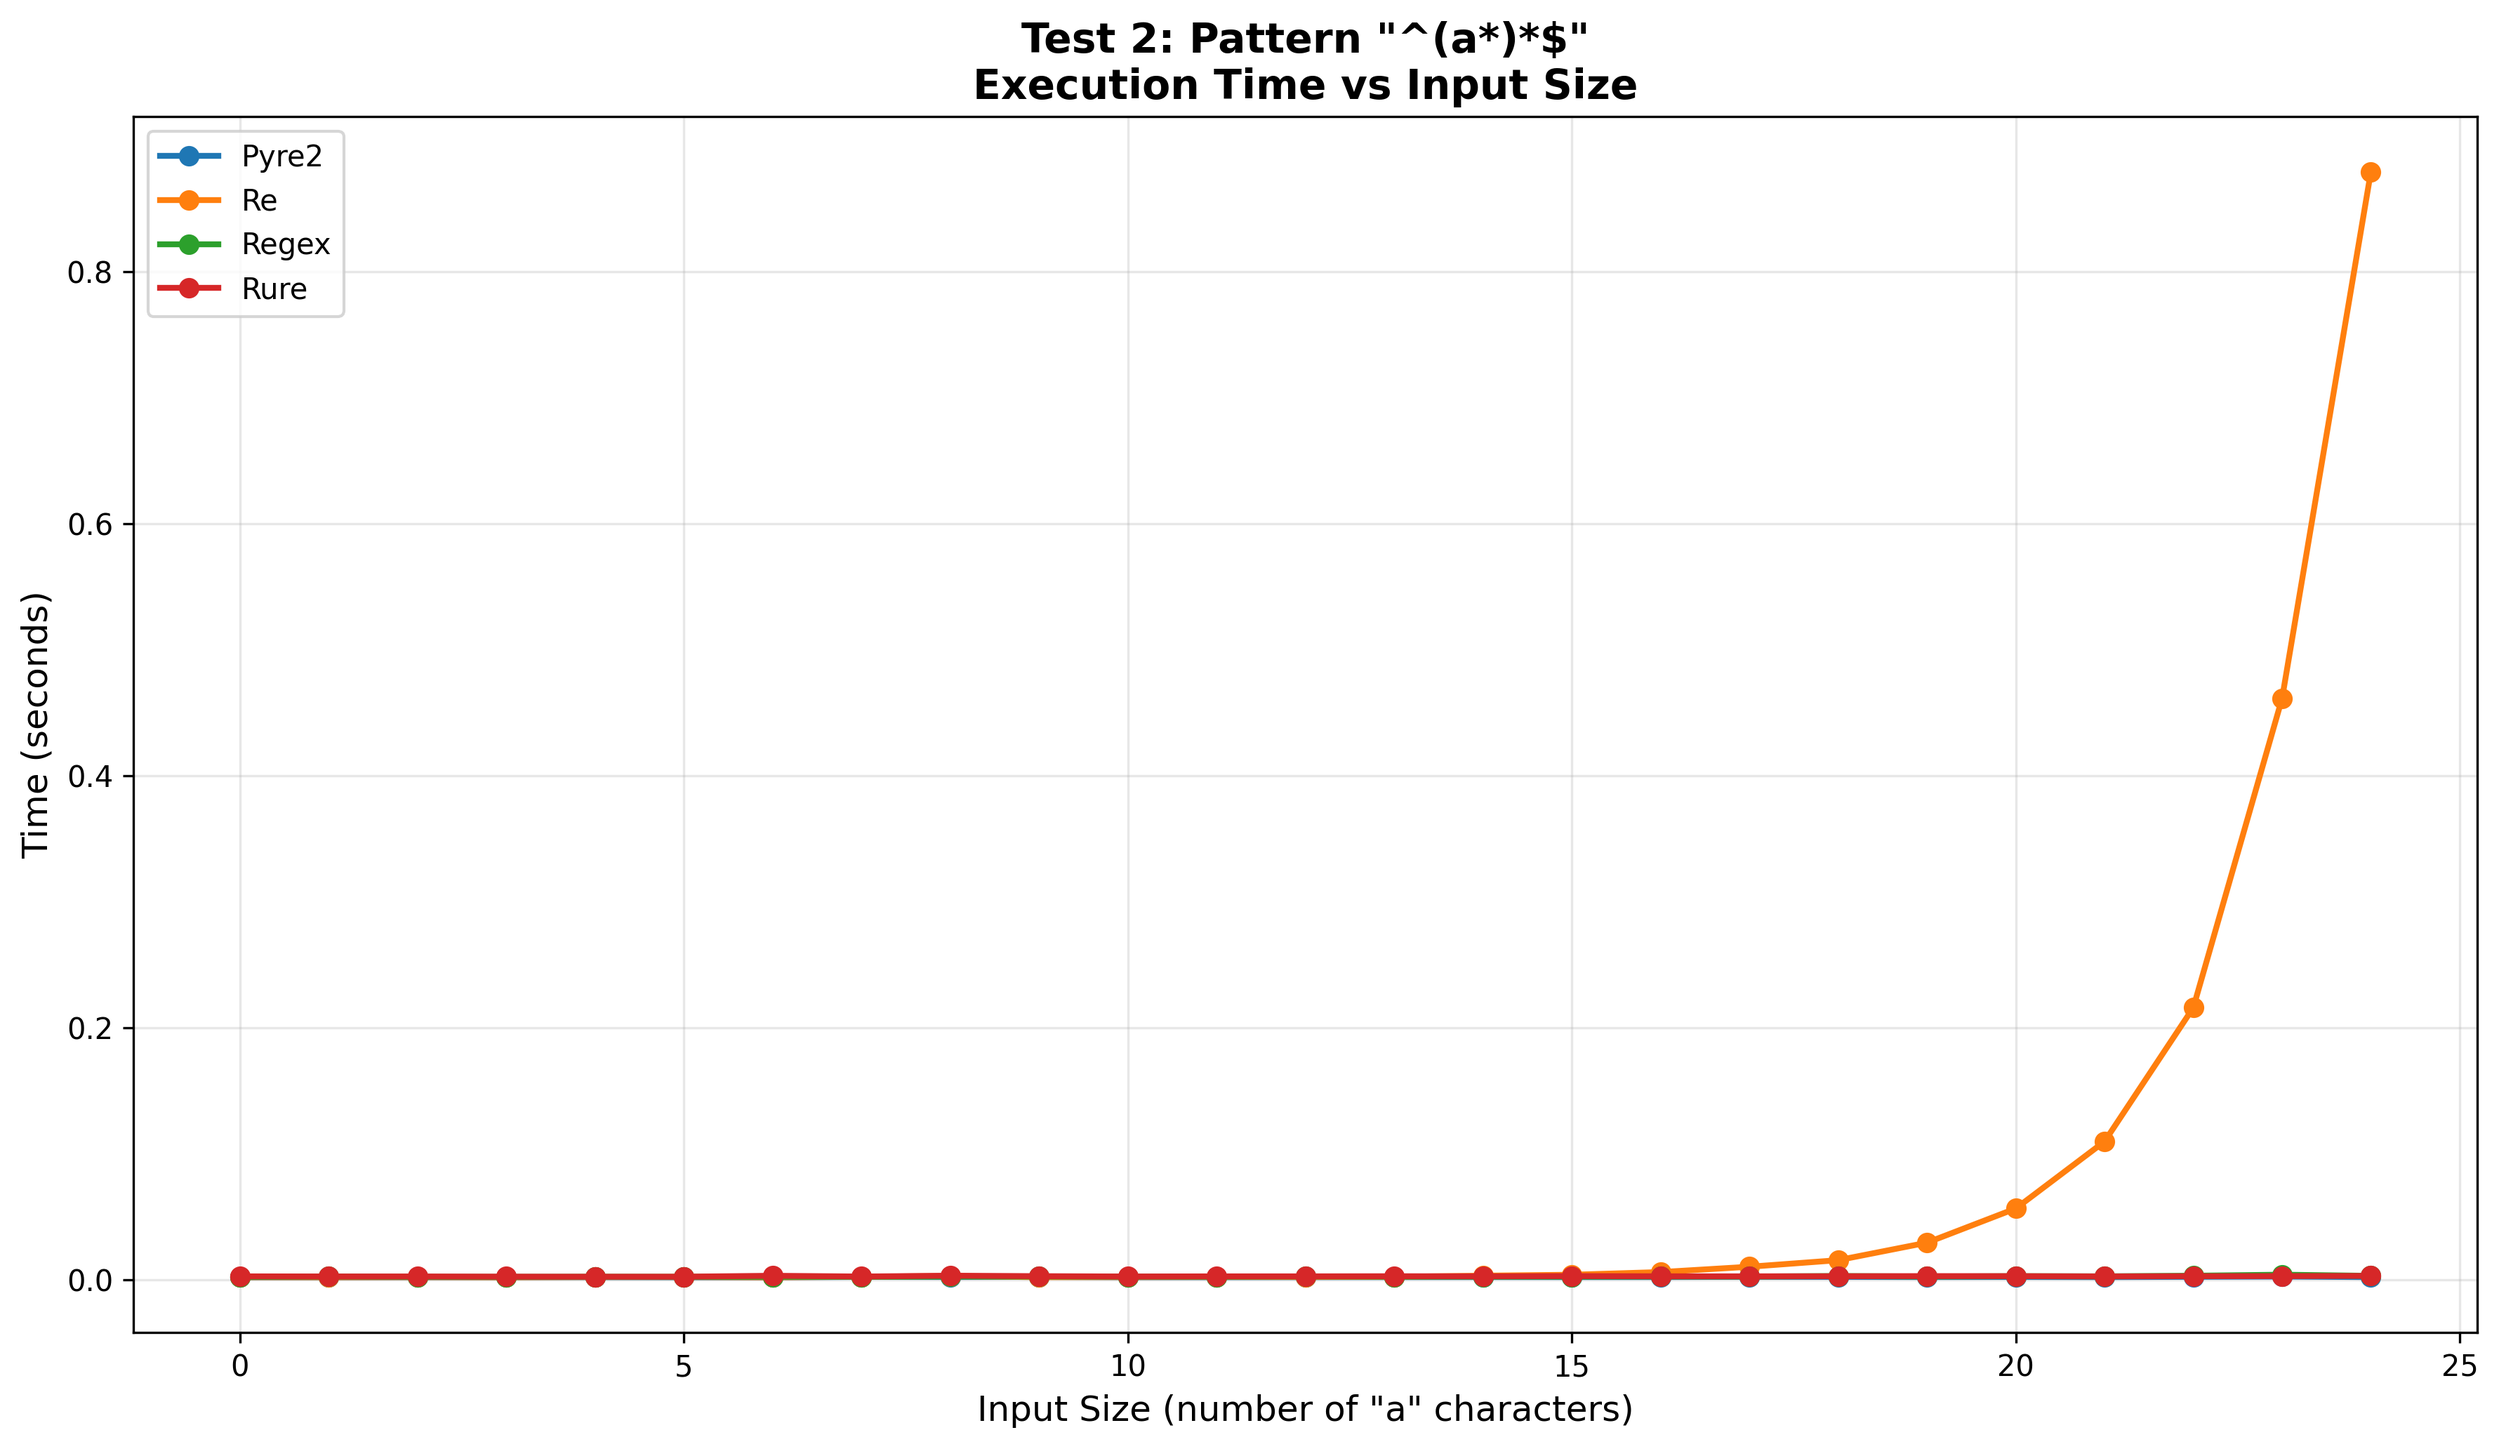
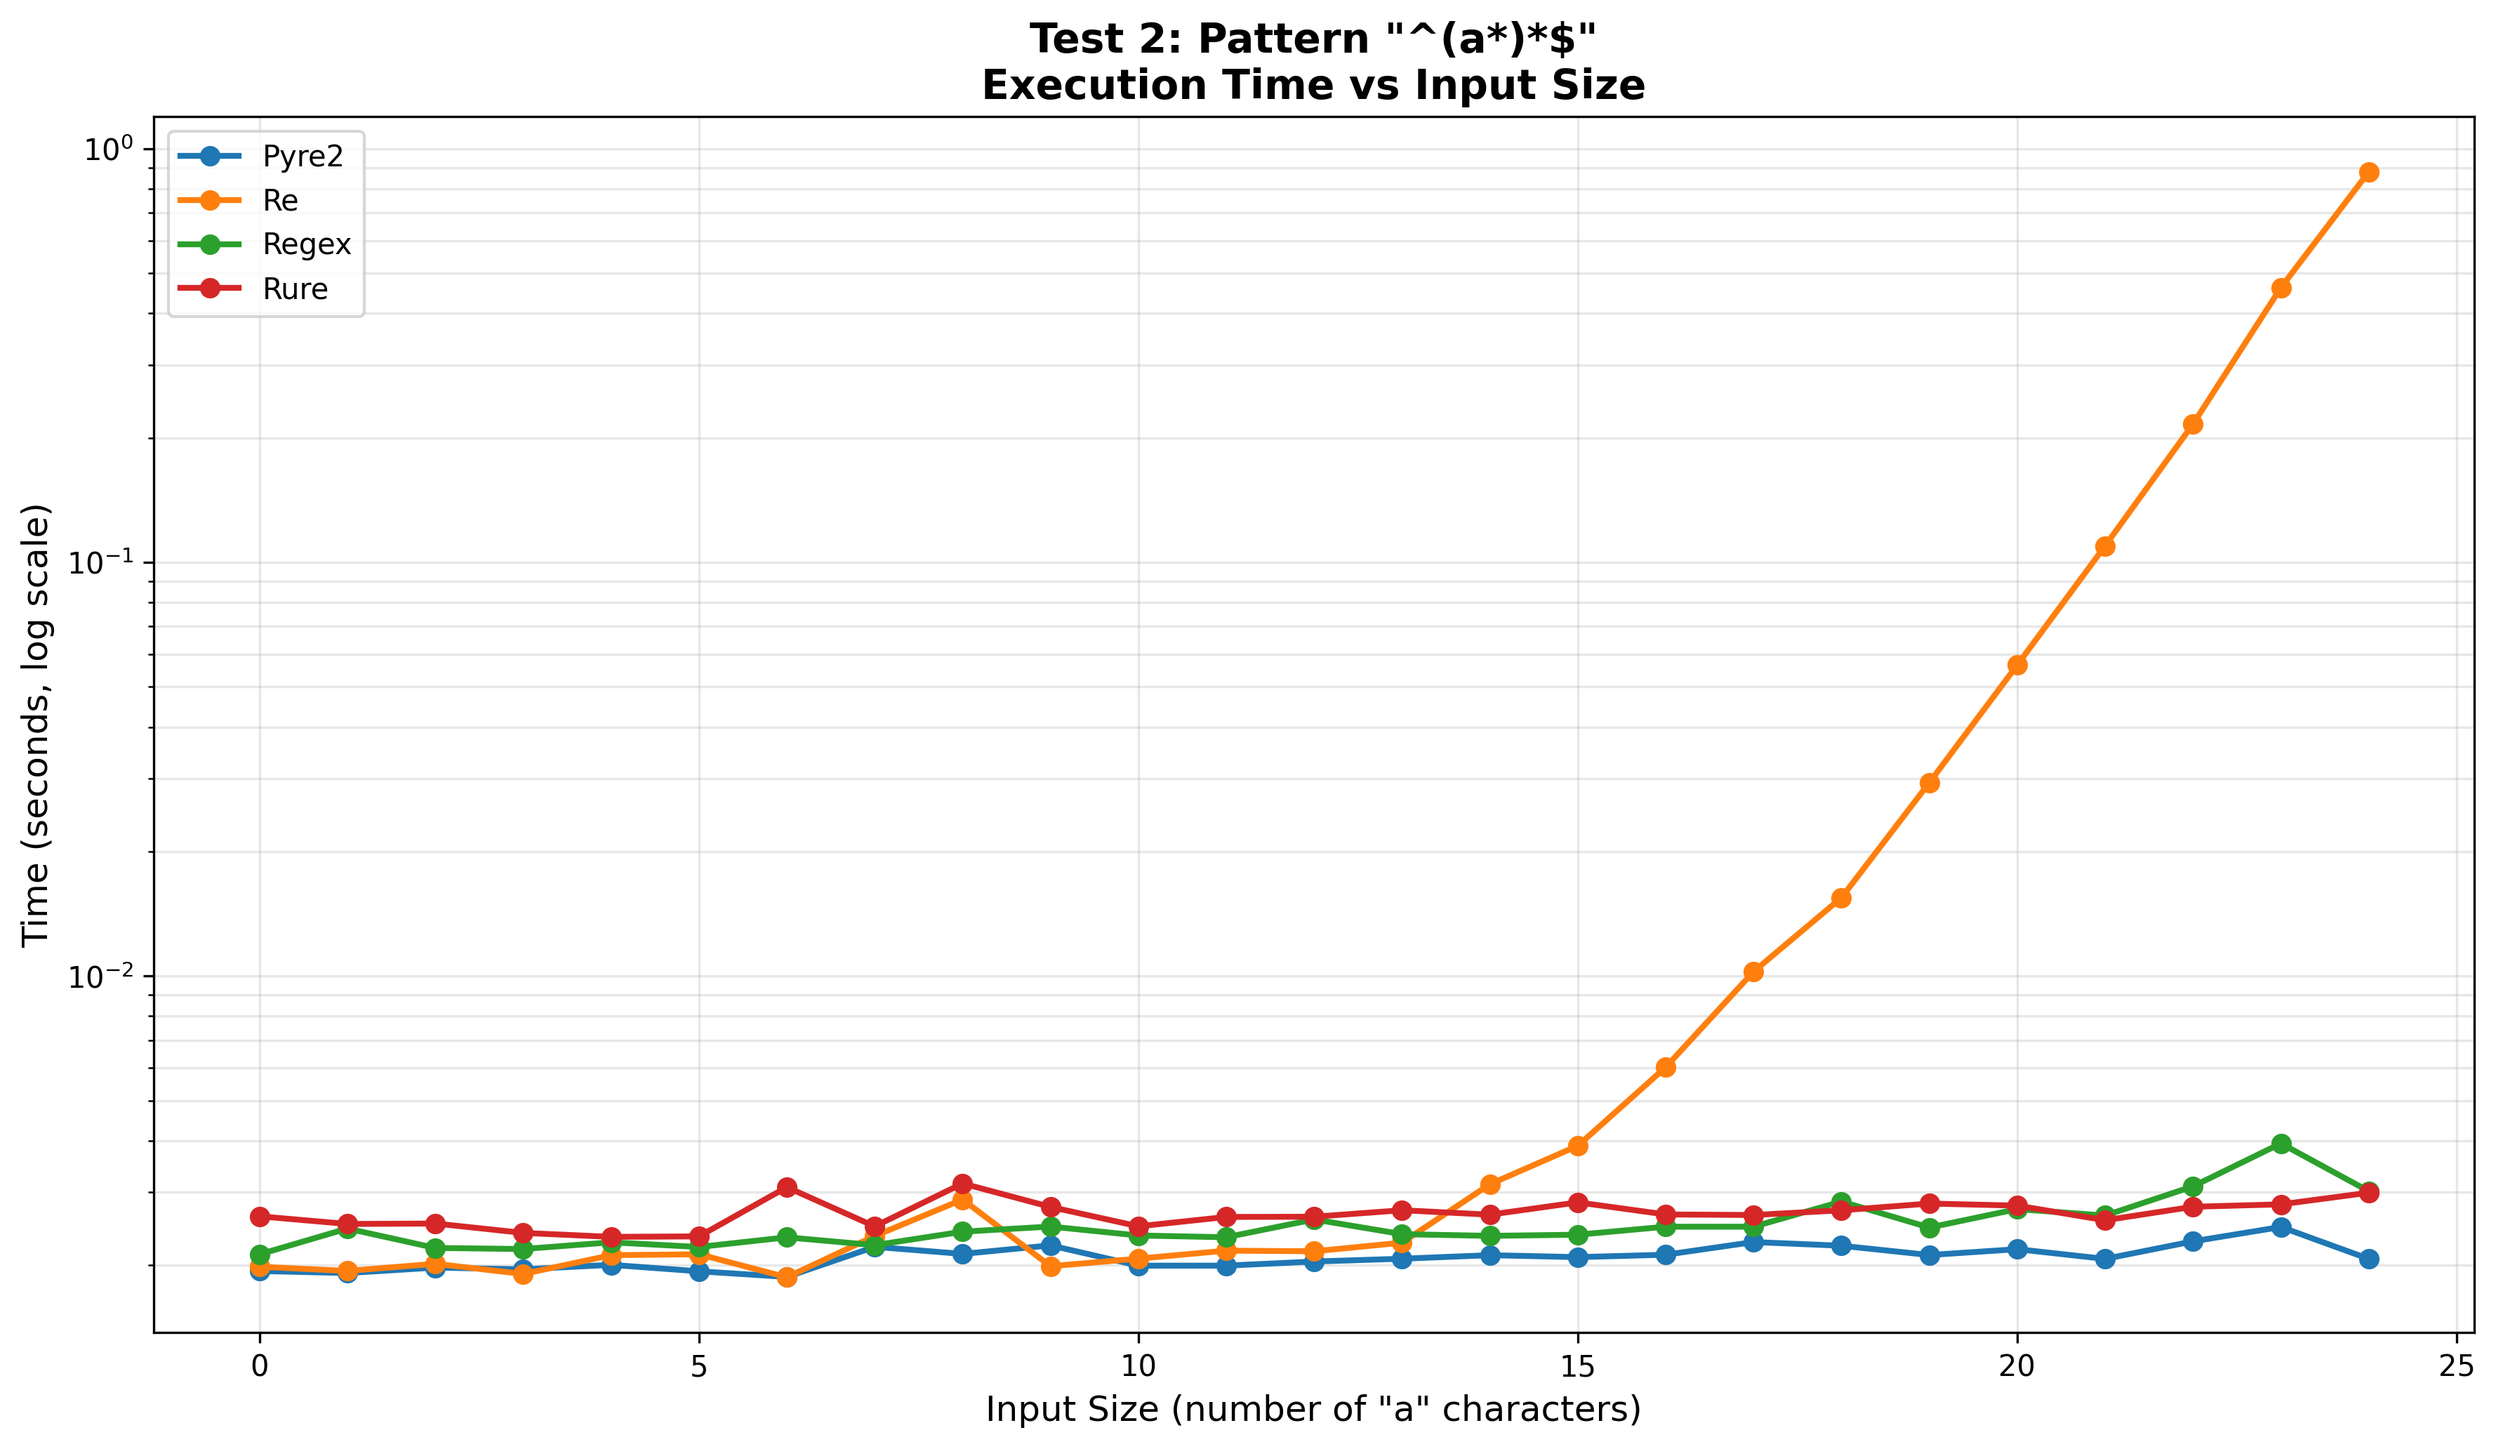
Checkpoint before run

diff --git a/graph_scaling.py b/graph_scaling.py
@@ -38,7 +38,8 @@ for test_id in sorted(tests.keys()):
         plt.plot(sizes, times, marker="o", label=library, linewidth=2)
 
     plt.xlabel('Input Size (number of "a" characters)', fontsize=12)
-    plt.ylabel("Time (seconds)", fontsize=12)
+    plt.ylabel("Time (seconds, log scale)", fontsize=12)
+    plt.yscale("log")
 
     pattern = pattern_info.get(test_id, "Unknown")
     plt.title(
@@ -48,7 +49,7 @@ for test_id in sorted(tests.keys()):
     )
 
     plt.legend(fontsize=10)
-    plt.grid(True, alpha=0.3)
+    plt.grid(True, alpha=0.3, which="both")
     plt.tight_layout()
 
     # Save the figure

diff --git a/main.py b/main.py
@@ -292,8 +292,8 @@ def print_summary_stats(summary_stats):
 def run_scaling_test():
     all_results = []
 
-    for test_id in range(1, 3):
-        for size in range(25):
+    for test_id in range(1, 37):
+        for size in range(30):
             results = run_single_test(test_id=test_id, input_size=size)
 
             all_results.append(
